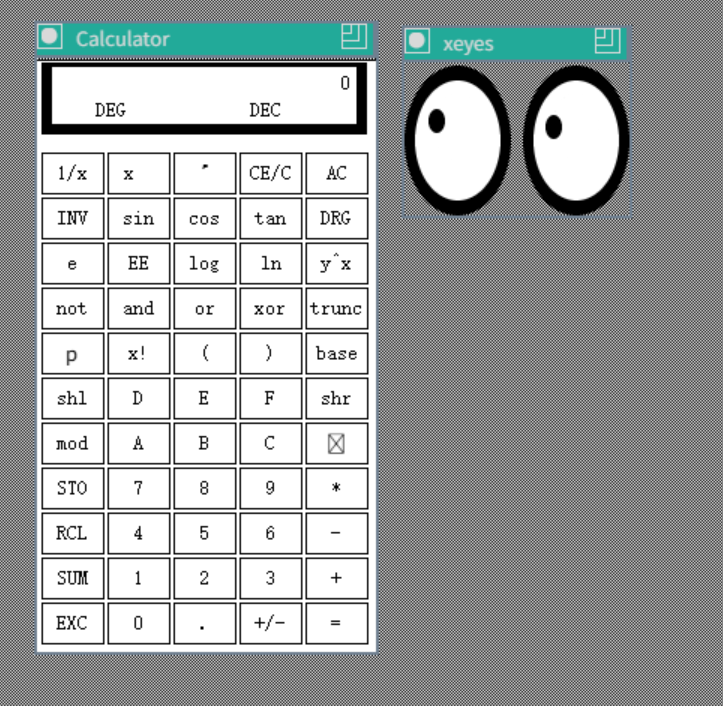
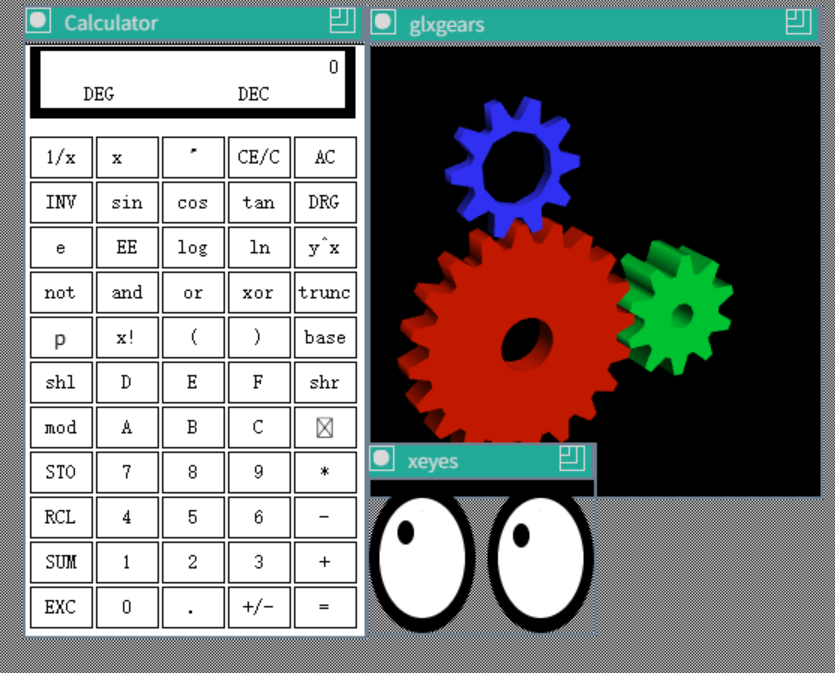
feat: implement input focus management to enhance keyboard event delivery

diff --git a/src/host/devices.ts b/src/host/devices.ts
@@ -54,6 +54,15 @@ export class InputBridge {
   /** Last window that received a ButtonPress, by connection id. Key
    *  events route here until another ButtonPress moves focus. */
   private focusedWindow: number | null = null;
+  /** Bridged from any client's XSetInputFocus call. The WM (twm) issues
+   *  XSetInputFocus on the inner client window after click-to-raise to
+   *  hand keyboard control off to the app, but that call only updates
+   *  the WM's own Display struct; without this hook the host's
+   *  focusedWindow stays pointed at the WM's frame and key events keep
+   *  going to the WM. None / PointerRoot reset us to "no override".
+   *  Whenever this is non-null and resolves to a known window, it wins
+   *  over the press-driven focusedWindow. */
+  private explicitFocus: number | null = null;
   /** Module that owns the current implicit pointer grab (set on ButtonPress,
    *  cleared on ButtonRelease). Used by onMouseMove to route motion events
    *  to the grab window even when the pointer is over empty canvas space. */
@@ -162,16 +171,29 @@ export class InputBridge {
   }
 
   pushKey(xType: number, e: KeyEventData): void {
-    if (this.focusedWindow === null) return;
-    const module = this.moduleForWindow(this.focusedWindow);
+    const focus = this.explicitFocus !== null
+      ? this.explicitFocus
+      : this.focusedWindow;
+    if (focus === null) return;
+    const module = this.moduleForWindow(focus);
     if (!module) return;
     if (e.keysym === 0) return;
     module.ccall(
       'emx11_push_key_event',
       null,
       ['number', 'number', 'number', 'number', 'number', 'number'],
-      [xType, this.focusedWindow, e.keysym, e.modifiers, 0, 0],
+      [xType, focus, e.keysym, e.modifiers, 0, 0],
     );
+  }
+
+  /** Bridged from XSetInputFocus on any module. None (0) / PointerRoot (1)
+   *  clear the explicit override and let press-driven focus take over. */
+  setExplicitFocus(window: number): void {
+    if (window === 0 || window === 1) {
+      this.explicitFocus = null;
+      return;
+    }
+    this.explicitFocus = window;
   }
 
   pushKeyDown(e: KeyEventData): void { this.pushKey(X_KeyPress, e); }

diff --git a/src/host/index.ts b/src/host/index.ts
@@ -316,6 +316,15 @@ export class Host implements EmX11Host {
     this.grabs.remove(window, button, modifiers);
   }
 
+  /** XSetInputFocus from any module. The WM uses this to hand keyboard
+   *  control off to a client whose own window did NOT subscribe to
+   *  ButtonPressMask -- without this, our press-driven focus tracker
+   *  would still point at the WM frame and keys would never reach the
+   *  app. */
+  onSetInputFocus(window: number): void {
+    this.devices.setExplicitFocus(window);
+  }
+
 
   /* -- EmX11Host: pixmaps + drawable copies + Shape --------------------- */
 

diff --git a/native/src/display.c b/native/src/display.c
@@ -137,6 +137,55 @@ Display *XOpenDisplay(const char *display_name) {
 
     g_display.next_keycode = 8;                 /* X reserves 0..7          */
 
+    /* Pre-populate the keysym table with the standard keysyms our TS-side
+     * keymap can produce (runtime/keymap.ts). Xt's translation manager
+     * calls XGetKeyboardMapping once at first key event and caches the
+     * result; any keysym we lazily allocated AFTER that snapshot is
+     * invisible to Xt forever, so apps like xcalc/glxgears would only
+     * react to whichever single keysym happened to populate the table
+     * before Xt's cache build. Tk does not cache this way, hence Tk apps
+     * worked fine. By installing the full set up front, Xt's cached
+     * keymap matches the live one for every key the TS layer can send. */
+    {
+        unsigned int kc = 8;
+
+        /* ASCII printable 0x20..0x7e -- keysym == codepoint per X11. */
+        for (KeySym ks = 0x20; ks <= 0x7e && kc < 256; ks++) {
+            g_display.keysym_table[kc++] = ks;
+        }
+
+        /* Common terminal-control keys also handled by XLookupString. */
+        static const KeySym k_specials[] = {
+            0xff0d, /* XK_Return     */
+            0xff09, /* XK_Tab        */
+            0xff08, /* XK_BackSpace  */
+            0xff1b, /* XK_Escape     */
+            0xffff, /* XK_Delete     */
+            0xff63, /* XK_Insert     */
+            0xff50, /* XK_Home       */
+            0xff57, /* XK_End        */
+            0xff55, /* XK_Page_Up    */
+            0xff56, /* XK_Page_Down  */
+            0xff51, /* XK_Left       */
+            0xff52, /* XK_Up         */
+            0xff53, /* XK_Right      */
+            0xff54, /* XK_Down       */
+            0xffe5, /* XK_Caps_Lock  */
+            0xffe1, /* XK_Shift_L    */
+            0xffe3, /* XK_Control_L  */
+            0xffe9, /* XK_Alt_L      */
+            0xffeb, /* XK_Super_L    */
+            0xffbe, 0xffbf, 0xffc0, 0xffc1, 0xffc2, 0xffc3,
+            0xffc4, 0xffc5, 0xffc6, 0xffc7, 0xffc8, 0xffc9, /* F1..F12 */
+        };
+        for (size_t i = 0; i < sizeof(k_specials)/sizeof(k_specials[0])
+                          && kc < 256; i++) {
+            g_display.keysym_table[kc++] = k_specials[i];
+        }
+
+        g_display.next_keycode = kc;
+    }
+
     emx11_init_screen(&g_display);
     g_display.screens = &g_display.screen0;
 

diff --git a/native/src/bridges.c b/native/src/bridges.c
@@ -197,6 +197,19 @@ EM_JS(void, emx11_js_ungrab_button,
           if (h) h.onUngrabButton(window >>> 0, button >>> 0, modifiers >>> 0);
       });
 
+/* --- input focus (XSetInputFocus) ---------------------------------------- *
+ *
+ * The WM uses XSetInputFocus to hand the keyboard to a client whose own
+ * window did not subscribe to ButtonPressMask (e.g. glxgears: only
+ * Key/Expose/StructureNotify selected). Without bridging this to the host,
+ * the press-driven focus tracker stays pointed at the WM frame and key
+ * events never reach the app. None (0) / PointerRoot (1) clear the
+ * override.                                                                 */
+EM_JS(void, emx11_js_set_input_focus, (unsigned int window), {
+    var e = globalThis.emX11; var h = e && e._bridge;
+    if (h && h.onSetInputFocus) h.onSetInputFocus(window >>> 0);
+});
+
 /* --- atom ---------------------------------------------------------------- */
 
 EM_JS(unsigned int, emx11_js_intern_atom, (int namePtr, int onlyIfExists), {

diff --git a/native/src/emx11_internal.h b/native/src/emx11_internal.h
@@ -598,6 +598,7 @@ extern void emx11_js_grab_button(Window window, unsigned int button,
                                  Window confine_to, Cursor cursor);
 extern void emx11_js_ungrab_button(Window window, unsigned int button,
                                    unsigned int modifiers);
+extern void emx11_js_set_input_focus(Window window);
 
 /* Browser clipboard bridge (see selection.c). The read path is split in
  * two because Asyncify can only suspend a single JS-to-C boundary: first

diff --git a/native/src/event_send.c b/native/src/event_send.c
@@ -132,6 +132,10 @@ int XSetInputFocus(Display *display, Window focus, int revert_to, Time time) {
         push_focus_change(display, FocusIn,  focus,
                           NotifyNormal, NotifyNonlinear);
     }
+    /* Tell the host so cross-process key delivery routes here. The WM
+     * sets focus to a window owned by another module; only the host has
+     * the global picture needed to dispatch KeyPress to that owner. */
+    emx11_js_set_input_focus(focus);
     return 1;
 }
 
